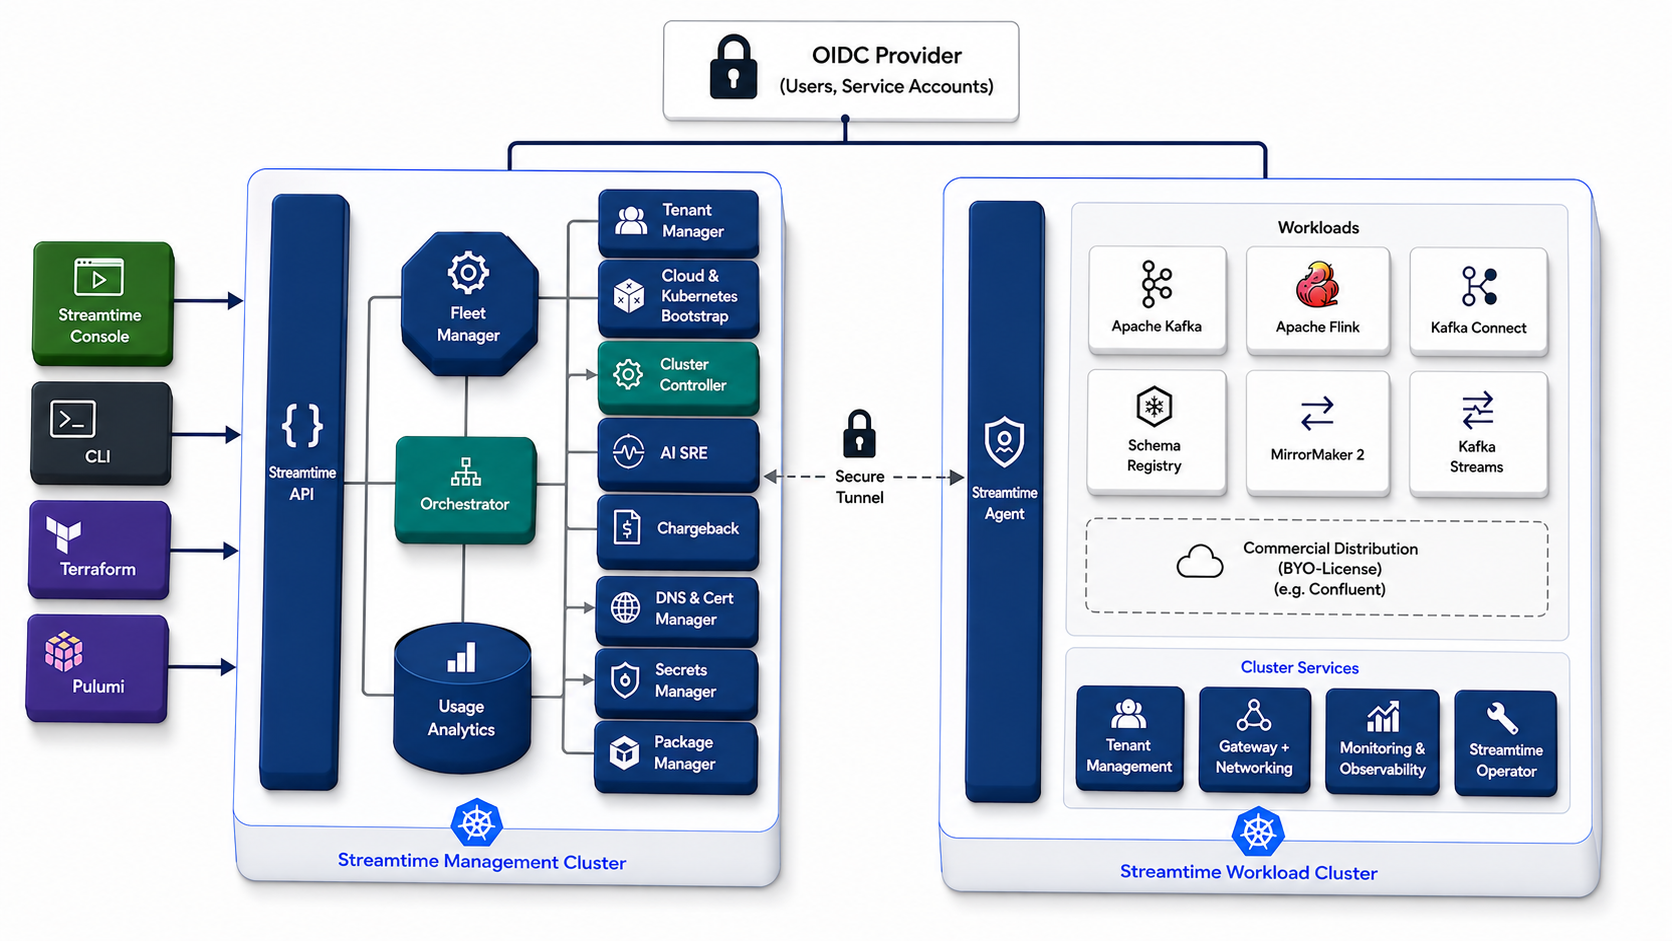
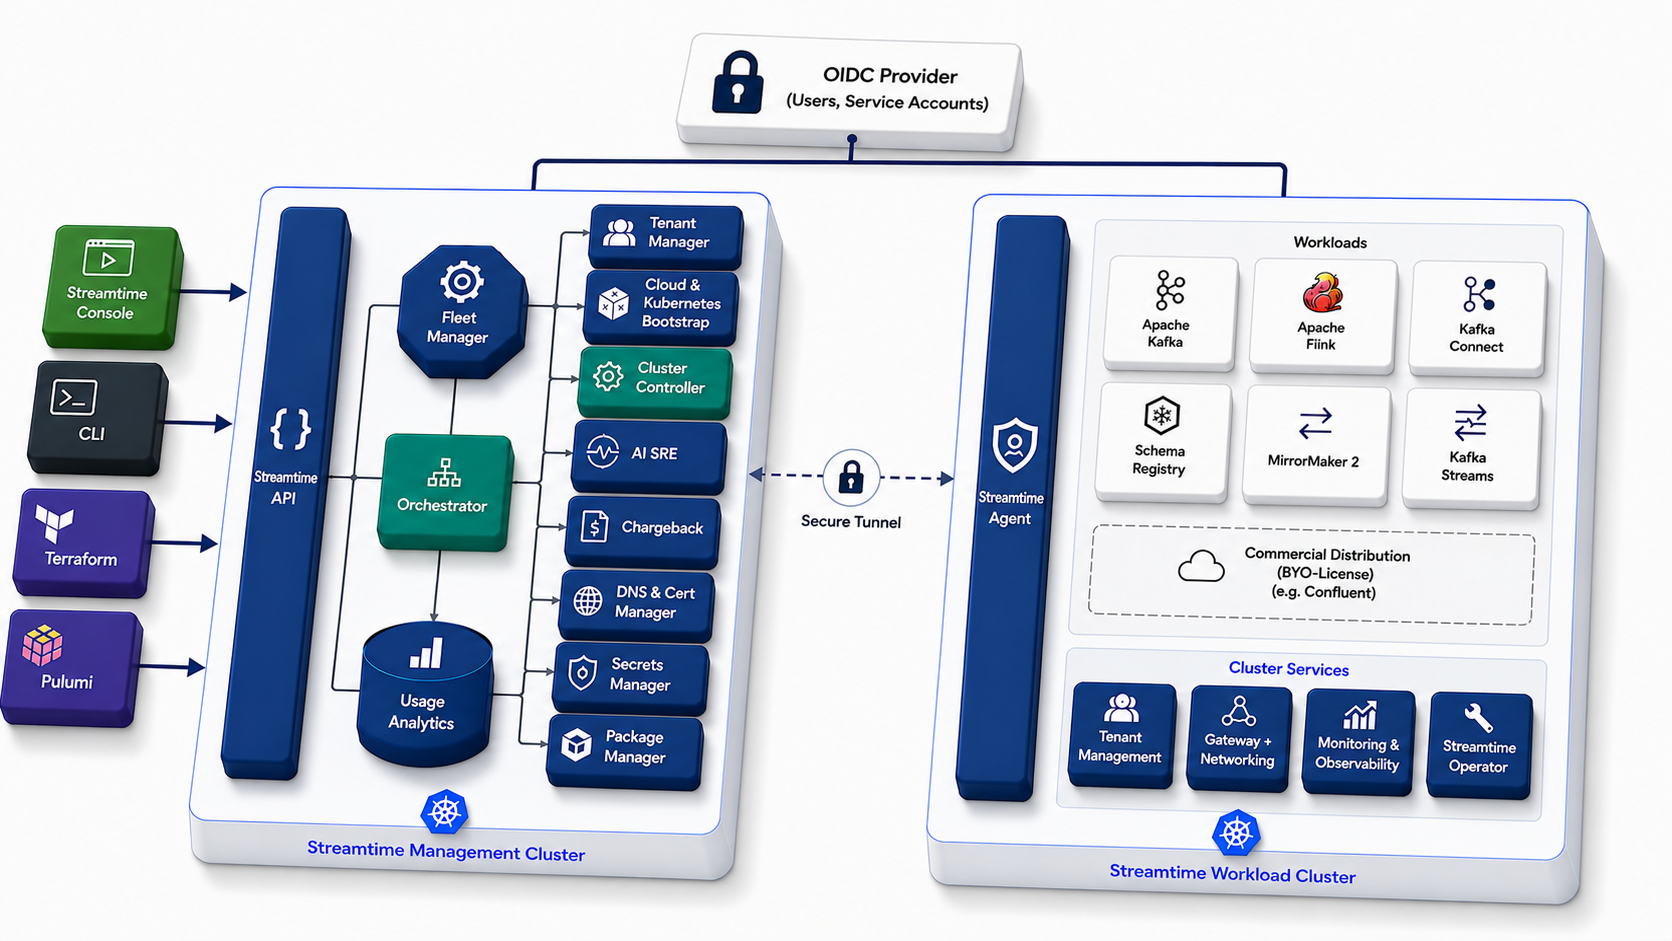
update homepage feature story

Changed region(s): [[0.0, 0.0, 0.9641, 0.9862]]

diff --git a/index.html b/index.html
@@ -8,7 +8,8 @@ description: Sovereign Streaming Platform.
     <div class="hero-copy">
       <p class="eyebrow editable">Sovereign Streaming Platform</p>
       <h1 class="editable">
-        Fully managed streaming platform, with complete data-residency and controls. Bring your own infrastructure. Cloud, Data Center and Edge.
+        Fully managed streaming platform, with complete data-residency and controls.<br>
+        <span class="hero-secondary-line">Bring your own infrastructure: Cloud, Data Center or Edge.</span>
       </h1>
       <div class="cta button alt">
         <a href="{{ site.baseurl }}/contact/">Contact us for a trial</a>
@@ -68,10 +69,10 @@ description: Sovereign Streaming Platform.
         <article class="feature-card editable">
           <span class="card-icon icon-premium" aria-hidden="true"></span>
           <span class="card-kicker">Pricing drag</span>
-          <h3>Managed streaming pricing punishes sleepy workloads.</h3>
+          <h3>Managed Kafka cost escalates in every usage pattern.</h3>
           <p>
-            Public cloud services charge complicated premiums even when clusters are tiny,
-            quiet or serving long-tail internal teams.
+            Tiny, sleepy clusters pay a premium; at scale, the price becomes unpalatable.
+            In between, enterprise sales premiums still make managed Kafka expensive.
           </p>
         </article>
         <article class="feature-card editable">
@@ -129,14 +130,14 @@ description: Sovereign Streaming Platform.
     <div class="container flex">
       <div class="text editable">
         <p class="eyebrow">Time to production-grade cluster</p>
-        <h2>5 minutes to a production-grade Kafka cluster.</h2>
+        <h2>5 minutes to a production-grade cluster, like the cloud.</h2>
         <p>
-          Launch any flavor of Kafka, including OSS and commercial distributions on a
-          bring-your-own-license basis, through a self-service workflow.
+          Package the Kafka ecosystem in one box: Apache Kafka, Apache Flink,
+          Kafka Connect and more, delivered through a self-service workflow.
         </p>
         <p>
-          Give teams the distribution they need without turning every request into a
-          bespoke platform project.
+          Give teams production-grade streaming infrastructure without turning every
+          request into a bespoke platform project.
         </p>
       </div>
       <div class="image">
@@ -158,15 +159,135 @@ description: Sovereign Streaming Platform.
   <section>
     <div class="container flex">
       <div class="text editable">
-        <p class="eyebrow">Deployed on your own fleet</p>
-        <h2>Bootstrapped and optimized for Kafka and other workloads on Kubernetes.</h2>
+        <p class="eyebrow">Right-sized economics</p>
+        <h2>Automatic right-sizing and predictable costs.</h2>
         <p>
-          Deploy on your own fleet, across cloud, data center and edge environments,
-          using Streamtime Agent and Streamtime Operator.
+          Run physical single-tenant, multi-tenant or virtual clusters with capacity
+          aligned to real workload demand.
         </p>
         <p>
-          Streamtime prepares the Kubernetes substrate for real-time data workloads while
-          keeping infrastructure ownership and residency with you.
+          Empirically validate and benchmark your baseline performance profile before
+          teams depend on it in production.
+        </p>
+      </div>
+      <div class="image">
+        <div class="media-popout image-popout">
+          <img
+            src="{{ site.baseurl }}/images/chargeback.png"
+            alt="Streamtime right-sizing and cost profile screen"
+            class="screenshot editable"
+          />
+          <button class="video-trigger compact" type="button" onclick="openModal()">
+            <span class="play-icon" aria-hidden="true"></span>
+            <span>Watch flow</span>
+          </button>
+        </div>
+      </div>
+    </div>
+  </section>
+
+  <section>
+    <div class="container flex">
+      <div class="text editable">
+        <p class="eyebrow">AI-assisted SRE</p>
+        <h2>AI-assisted SRE and Day 2 operations.</h2>
+        <p>
+          Use our health agent or connect your own model to Streamtime MCP to handle
+          and triage incident alerts.
+        </p>
+        <p>
+          Reason deeply about infrastructure metrics, logs and patterns across your
+          fleet at every level of the stack.
+        </p>
+      </div>
+      <div class="image">
+        <div class="media-popout image-popout">
+          <img
+            src="{{ site.baseurl }}/images/ai-agent.jpeg"
+            alt="Streamtime AI operations assistant"
+            class="screenshot editable"
+          />
+          <button class="video-trigger compact" type="button" onclick="openModal()">
+            <span class="play-icon" aria-hidden="true"></span>
+            <span>Watch flow</span>
+          </button>
+        </div>
+      </div>
+    </div>
+  </section>
+
+  <section class="why-us-section">
+    <div class="container flex">
+      <div class="text editable">
+        <p class="eyebrow">Over-the-air updates</p>
+        <h2>Automatic over-the-air updates for the fleet.</h2>
+        <p>
+          Schedule routine upgrades across clusters with automatic zero-downtime
+          rollouts during your configured maintenance windows.
+        </p>
+        <p>
+          Roll back safely when needed, while preserving the operational experience
+          platform teams expect from a managed service.
+        </p>
+      </div>
+      <div class="image">
+        <div class="media-popout image-popout">
+          <img
+            src="{{ site.baseurl }}/images/upgrade.png"
+            alt="Streamtime upgrade operations screen"
+            class="screenshot editable"
+          />
+          <button class="video-trigger compact" type="button" onclick="openModal()">
+            <span class="play-icon" aria-hidden="true"></span>
+            <span>Watch flow</span>
+          </button>
+        </div>
+      </div>
+    </div>
+  </section>
+
+  <section>
+    <div class="container flex">
+      <div class="text editable">
+        <p class="eyebrow">Cost attribution</p>
+        <h2>Granular cost attribution and chargeback across the enterprise.</h2>
+        <p>
+          Attribute platform spend by workload, team, tenant and environment with
+          usage data that finance and engineering can both understand.
+        </p>
+        <p>
+          Support internal billing and chargeback without reverse-engineering opaque
+          managed-service invoices.
+        </p>
+      </div>
+      <div class="image">
+        <div class="media-popout image-popout">
+          <img
+            src="{{ site.baseurl }}/images/chargeback.png"
+            alt="Streamtime chargeback analytics screen"
+            class="screenshot editable"
+          />
+          <button class="video-trigger compact" type="button" onclick="openModal()">
+            <span class="play-icon" aria-hidden="true"></span>
+            <span>Watch flow</span>
+          </button>
+        </div>
+      </div>
+    </div>
+  </section>
+
+  <section>
+    <div class="container flex">
+      <div class="text editable">
+        <p class="eyebrow">Bring your own infrastructure</p>
+        <h2>Powered by a Kubernetes-backed fleet you own.</h2>
+        <p>
+          Bootstrap within minutes on your own cloud, data center or edge fleet.
+          No complex networking patterns required.
+        </p>
+        <p>
+          Everything runs within your perimeter, with Streamtime Agent and Operator
+          preparing the Kubernetes substrate for real-time workloads.
         </p>
       </div>
       <div class="image">
@@ -188,22 +309,22 @@ description: Sovereign Streaming Platform.
   <section>
     <div class="container flex">
       <div class="text editable">
-        <p class="eyebrow">Tenancy and economics</p>
-        <h2>Configurable tenancy and performance profiles with automatic right-sizing.</h2>
+        <p class="eyebrow">BYO-everything</p>
+        <h2>Bring your own licenses, domains, OIDC providers and tools.</h2>
         <p>
-          Choose the tenancy model and performance profile each workload needs, then let
-          Streamtime right-size the fleet against real demand.
+          Integrate deeply with the platforms your enterprise already uses: licenses,
+          identity providers, domains, certificates, observability and automation.
         </p>
         <p>
-          Keep pricing predictable by aligning capacity, SLOs and team-level consumption
-          instead of paying public-cloud premiums for idle or sleepy clusters.
+          Keep the operating model flexible while standardizing the streaming experience
+          across teams.
         </p>
       </div>
       <div class="image">
         <div class="media-popout image-popout">
           <img
-            src="{{ site.baseurl }}/images/chargeback.png"
-            alt="Streamtime chargeback analytics screen"
+            src="{{ site.baseurl }}/images/bootstrap-provider.png"
+            alt="Streamtime enterprise integration screen"
             class="screenshot editable"
           />
           <button class="video-trigger compact" type="button" onclick="openModal()">
@@ -242,67 +363,6 @@ description: Sovereign Streaming Platform.
             quality, root cause analysis and operational accountability matter.
           </p>
         </article>
-      </div>
-    </div>
-  </section>
-
-  <section>
-    <div class="container flex">
-      <div class="text editable">
-        <p class="eyebrow">Kubernetes operations</p>
-        <h2>Simplified fleet infrastructure operations on Kubernetes.</h2>
-        <p>
-          Deploy across cloud providers, private cloud or bare metal anywhere Kubernetes
-          runs, using the Streamtime Agent and Operator to keep infrastructure lifecycle
-          work consistent.
-        </p>
-        <p>
-          Manage upgrades, rollouts, SLO awareness, logs, metrics and performance trends
-          from one control plane instead of stitching together one-off scripts.
-        </p>
-      </div>
-      <div class="image">
-        <div class="media-popout image-popout">
-          <img
-            src="{{ site.baseurl }}/images/bootstrap-provider.png"
-            alt="Streamtime provider bootstrap screen"
-            class="screenshot editable"
-          />
-          <button class="video-trigger compact" type="button" onclick="openModal()">
-            <span class="play-icon" aria-hidden="true"></span>
-            <span>Watch flow</span>
-          </button>
-        </div>
-      </div>
-    </div>
-  </section>
-
-  <section>
-    <div class="container flex">
-      <div class="text editable">
-        <p class="eyebrow">Telemetry and AI Ops</p>
-        <h2>Operate with confidence and deep insight into your systems.</h2>
-        <p>
-          Consume automated alerts and telemetry, validate performance profiles empirically
-          and predict incidents before they interrupt teams.
-        </p>
-        <p>
-          Streamtime AI Ops helps triage alerts with real fleet context, so operators can
-          move from noise to diagnosis faster.
-        </p>
-      </div>
-      <div class="image">
-        <div class="media-popout image-popout">
-          <img
-            src="{{ site.baseurl }}/images/ai-agent.jpeg"
-            alt="Streamtime AI operations assistant"
-            class="screenshot editable"
-          />
-          <button class="video-trigger compact" type="button" onclick="openModal()">
-            <span class="play-icon" aria-hidden="true"></span>
-            <span>Watch flow</span>
-          </button>
-        </div>
       </div>
     </div>
   </section>

diff --git a/_sass/landing-page.scss b/_sass/landing-page.scss
@@ -55,6 +55,13 @@
 	}
 }
 
+.hero-secondary-line {
+	display: inline-block;
+	font-size: .62em;
+	line-height: 1.25;
+	margin-top: 16px;
+}
+
 .hero-layout {
 	display: grid;
 	gap: 36px;
